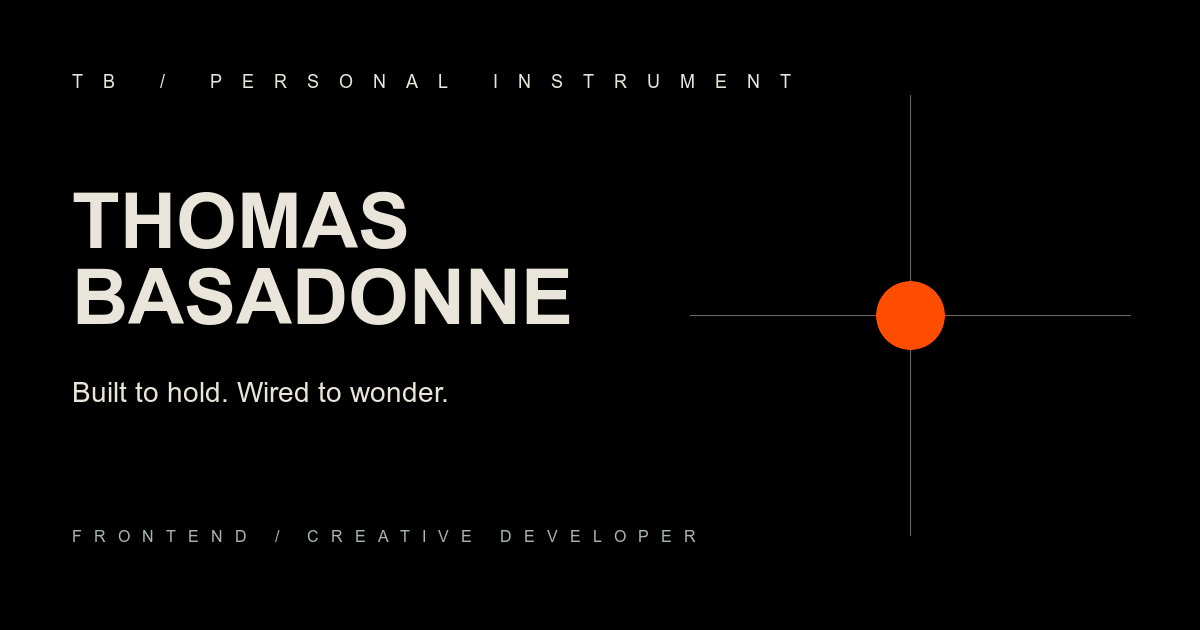
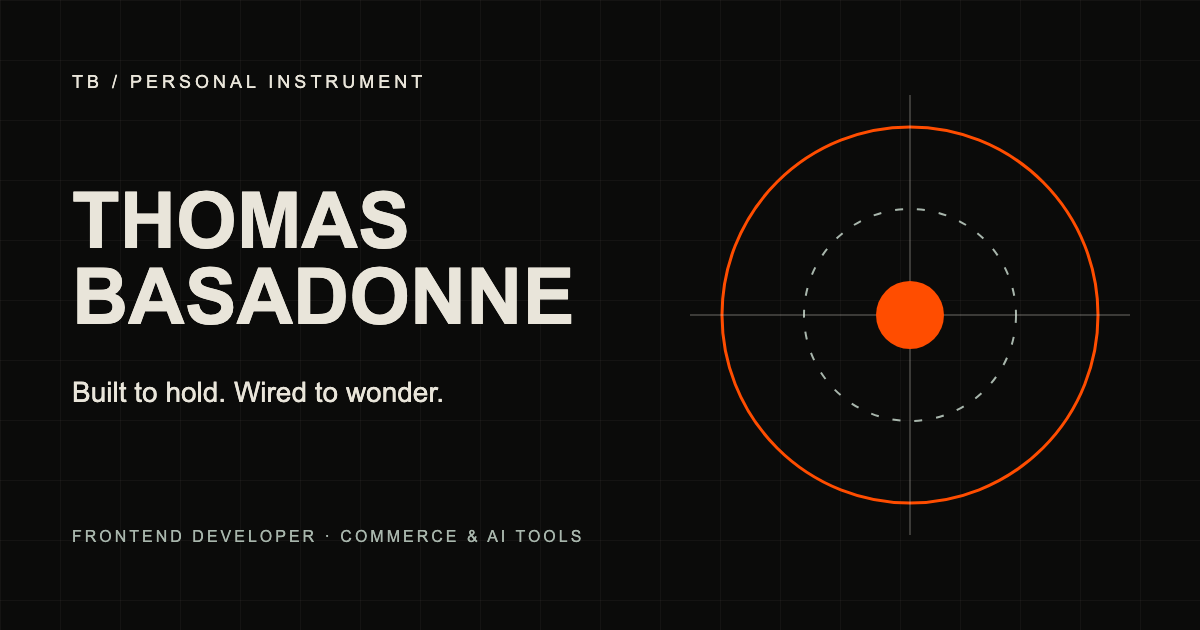
feat(seo): previews, share image and fallback carry the public role (REL-01) (#65)
* feat(seo): previews and the crash fallback carry the public role

DEC-00 n. 5 (#45) fixed the public role as "Frontend Developer · Commerce & AI tools". The
document title already used it; og:title and twitter:title still showed only the concept line,
so a shared link described the concept before Thomas (CT-022). Both now match the title.

The crash fallback still said "Frontend and creative developer"; it now uses the same
positioning as the meta description.

tests/releaseIdentity.test.ts guards title == og:title == twitter:title, the declared OG image
size against the PNG header, matching alt texts and the retired role in the fallback.

Refs #44

* fix(og): the share image states the public role and matches its SVG

og-image.svg still read "FRONTEND / CREATIVE DEVELOPER" (retired by DEC-00 n. 5); it now
reads "FRONTEND DEVELOPER · COMMERCE & AI TOOLS".

The committed PNG had also drifted from its source: rendered by a rasteriser that dropped the
orange ring, the dashed ring, the grid and the background (only the 3,625 orange pixels of the
centre dot survived), while og:image:alt promises "a calibrated machine opening into rings".
scripts/render-og-image.mjs (pnpm og:image) renders the PNG from the SVG with Chromium; the
regenerated image has every layer and keeps the declared 1200x630.

Refs #44

* ci: trigger a branch build with the corrected Workers Builds preview settings

* test(e2e): give scene-gated waits one CI budget and scroll to a stable end
[…]

diff --git a/tests/e2e/portfolio.spec.ts b/tests/e2e/portfolio.spec.ts
@@ -5,6 +5,10 @@ import { portfolioContent } from "../../src/content/portfolio";
 import { MOTION_RATES } from "../../src/lib/motionPolicy";
 import { chapterRailFit, controlInventory, focusVisibility, midWordBreaks, typeInventory } from "./readability";
 
+// Anything gated on the scene being compiled (canvas ready, motion control, link-failure fallback): software
+// WebGL on a loaded CI runner can take well over the default 5s, so these waits share one generous budget.
+const SCENE_TIMEOUT = 20_000;
+
 async function bypassEntry(page: Page) {
   await page.addInitScript(() => window.sessionStorage.setItem("tb:entry-seen", "1"));
 }
@@ -15,8 +19,15 @@ async function scrollToEnd(page: Page) {
     // Let hydration's fragment navigation and optional font metrics settle first.
     // Otherwise WebKit can replay #contact after our intentional bottom scroll.
     await document.fonts.ready;
-    await new Promise<void>((resolve) => requestAnimationFrame(() => requestAnimationFrame(() => resolve())));
-    window.scrollTo({ top: document.body.scrollHeight, behavior: "instant" });
+    const frames = () => new Promise<void>((resolve) => requestAnimationFrame(() => requestAnimationFrame(() => resolve())));
+    await frames();
+    // The page can still grow or replay the fragment after one scroll (seen on CI at 2560x1080: depth 095),
+    // so scroll until the bottom holds for two frames.
+    for (let attempt = 0; attempt < 10; attempt += 1) {
+      window.scrollTo({ top: document.body.scrollHeight, behavior: "instant" });
+      await frames();
+      if (Math.ceil(window.scrollY + window.innerHeight) >= document.documentElement.scrollHeight - 1) return;
+    }
   });
 }
 
@@ -426,7 +437,7 @@ test("motion pause remains explicit across drawer and language changes", async (
   await page.goto("/#work");
   await requireWebGL(page);
   const pause = page.getByRole("button", { name: "Pause animation", exact: true });
-  await expect(pause).toBeVisible();
+  await expect(pause).toBeVisible({ timeout: SCENE_TIMEOUT });
   await pause.focus();
   await page.keyboard.press("Enter");
   await expect(page.getByRole("button", { name: "Resume animation", exact: true })).toBeFocused();
@@ -577,7 +588,7 @@ test("the scene canvas keeps its size and place while the story scrolls", async 
   await page.goto("/#work");
   await requireWebGL(page);
   // Generous: software WebGL on CI can take longer than the default 5s to compile the scene.
-  await expect(page.locator(".scene-staged")).toHaveAttribute("data-visual-ready", "", { timeout: 20_000 });
+  await expect(page.locator(".scene-staged")).toHaveAttribute("data-visual-ready", "", { timeout: SCENE_TIMEOUT });
   const state = () => page.locator(".webgl-shell canvas").evaluate((element: HTMLCanvasElement) => {
     const box = element.getBoundingClientRect();
     return { width: element.width, height: element.height, left: Math.round(box.left), top: Math.round(box.top) };
@@ -614,9 +625,8 @@ test("the visual layer arriving does not shift the reading layout", async ({ pag
   const positions = () => page.evaluate(() => ["about", "work", "contact"].map((id) =>
     Math.round(document.getElementById(id)!.getBoundingClientRect().top + scrollY)));
   const before = await positions();
-  await expect(page.locator(".webgl-shell canvas")).toHaveAttribute("data-context-guard", "ready");
-  // Generous: software WebGL on CI can take longer than the default 5s to compile the scene.
-  await expect(page.locator(".scene-staged")).toHaveAttribute("data-visual-ready", "", { timeout: 20_000 });
+  await expect(page.locator(".webgl-shell canvas")).toHaveAttribute("data-context-guard", "ready", { timeout: SCENE_TIMEOUT });
+  await expect(page.locator(".scene-staged")).toHaveAttribute("data-visual-ready", "", { timeout: SCENE_TIMEOUT });
   expect(await positions()).toEqual(before);
 });
 
@@ -625,8 +635,8 @@ test("WebGL context loss switches to the deterministic fallback", async ({ page,
   await bypassEntry(page);
   await page.goto("/");
   const canvas = page.locator(".webgl-shell canvas");
-  await expect(canvas).toBeVisible();
-  await expect(canvas).toHaveAttribute("data-context-guard", "ready");
+  await expect(canvas).toBeVisible({ timeout: SCENE_TIMEOUT });
+  await expect(canvas).toHaveAttribute("data-context-guard", "ready", { timeout: SCENE_TIMEOUT });
   const contextLost = await canvas.evaluate((element: HTMLCanvasElement) => {
     const context = element.getContext("webgl2") ?? element.getContext("webgl");
     const extension = context?.getExtension("WEBGL_lose_context");
@@ -651,7 +661,7 @@ test("a shader that fails to link switches to the deterministic fallback", async
   await bypassEntry(page);
   await page.goto("/");
   await requireWebGL(page);
-  await expect(page.getByText(/visual layer unavailable/i)).toBeVisible();
+  await expect(page.getByText(/visual layer unavailable/i)).toBeVisible({ timeout: SCENE_TIMEOUT });
   await expect(page.getByRole("heading", { level: 1, name: /thomas basadonne/i })).toBeVisible();
 });
 

diff --git a/tests/releaseIdentity.test.ts b/tests/releaseIdentity.test.ts
@@ -1,0 +1,45 @@
+import { readFileSync } from "node:fs";
+import { describe, expect, it } from "vitest";
+import { portfolioContent } from "../src/content/portfolio";
+
+// REL-01 (#44): one public identity everywhere a recruiter meets it first. The role is DEC-00 n. 5.
+const read = (path: string) => readFileSync(new URL(`../${path}`, import.meta.url), "utf8");
+const decode = (value: string) => value.replaceAll("&amp;", "&");
+const html = read("index.html");
+const meta = (attribute: "name" | "property", key: string) => {
+  const match = html.match(new RegExp(`<meta ${attribute}="${key}" content="([^"]*)"`));
+  if (!match) throw new Error(`Missing <meta ${attribute}="${key}">`);
+  return decode(match[1]);
+};
+
+const { title } = portfolioContent.en.meta;
+const { role } = portfolioContent.en.profile;
+
+describe("release identity", () => {
+  it("social previews carry the name and the public role, like the document title", () => {
+    expect(decode(html.match(/<title>([^<]*)<\/title>/)?.[1] ?? "")).toBe(title);
+    expect(meta("property", "og:title")).toBe(title);
+    expect(meta("name", "twitter:title")).toBe(title);
+    expect(title).toContain(role);
+  });
+
+  it("the share image states the public role in its source", () => {
+    const svg = decode(read("public/assets/og-image.svg"));
+    expect(svg).toContain(role.toUpperCase());
+    expect(svg).not.toMatch(/creative/i);
+  });
+
+  it("the share image is the declared 1200x630 PNG", () => {
+    const png = readFileSync(new URL("../public/assets/og-image.png", import.meta.url));
+    expect(png.subarray(1, 4).toString("ascii")).toBe("PNG");
+    expect([png.readUInt32BE(16), png.readUInt32BE(20)]).toEqual([
+      Number(meta("property", "og:image:width")),
+      Number(meta("property", "og:image:height")),
+    ]);
+    expect(meta("property", "og:image:alt")).toBe(meta("name", "twitter:image:alt"));
+  });
+
+  it("the crash fallback does not bring back the retired role", () => {
+    expect(read("src/components/AppErrorBoundary.tsx")).not.toMatch(/creative developer/i);
+  });
+});

diff --git a/index.html b/index.html
@@ -10,7 +10,7 @@
       name="description"
       content="Frontend developer building enterprise B2B commerce with React and PWA Studio, and local-first AI tools that run on your own machine. Based in Italy, working remotely."
     />
-    <meta property="og:title" content="Thomas Basadonne — Built to hold. Wired to wonder." />
+    <meta property="og:title" content="Thomas Basadonne — Frontend Developer · Commerce &amp; AI tools" />
     <meta
       property="og:description"
       content="Frontend developer: enterprise B2B commerce by day, local-first AI tools by night. Italy · Remote."
@@ -25,7 +25,7 @@
     <meta property="og:image:height" content="630" />
     <meta property="og:image:alt" content="The Tolerance instrument: a calibrated machine opening into rings, with the name Thomas Basadonne." />
     <meta name="twitter:card" content="summary_large_image" />
-    <meta name="twitter:title" content="Thomas Basadonne — Built to hold. Wired to wonder." />
+    <meta name="twitter:title" content="Thomas Basadonne — Frontend Developer · Commerce &amp; AI tools" />
     <meta name="twitter:description" content="Frontend developer: enterprise B2B commerce by day, local-first AI tools by night. Italy · Remote." />
     <meta name="twitter:image" content="https://thomas-basadonne-portfolio.thomasbasadonne.workers.dev/assets/og-image.png" />
     <meta name="twitter:image:alt" content="The Tolerance instrument: a calibrated machine opening into rings, with the name Thomas Basadonne." />

diff --git a/src/components/AppErrorBoundary.tsx b/src/components/AppErrorBoundary.tsx
@@ -26,8 +26,8 @@ export class AppErrorBoundary extends Component<
         <p className="mono-label">TB / resilient mode</p>
         <h1>Thomas Basadonne</h1>
         <p>
-          Frontend and creative developer working across resilient commerce systems,
-          intelligent products and unusual interfaces.
+          Frontend developer building enterprise B2B commerce, and local-first AI tools that
+          run on your own machine.
         </p>
         <a href="https://it.linkedin.com/in/thomasbasadonne">Continue on LinkedIn</a>
       </main>
